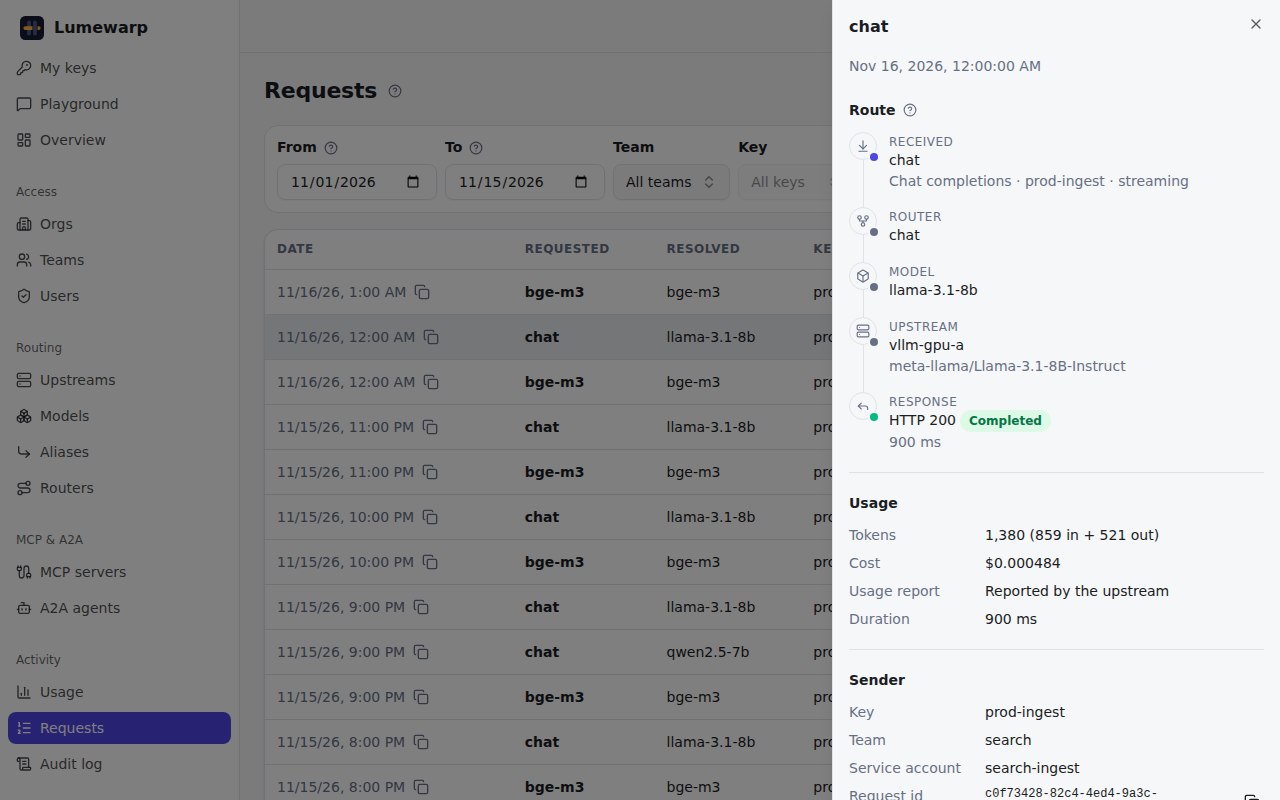
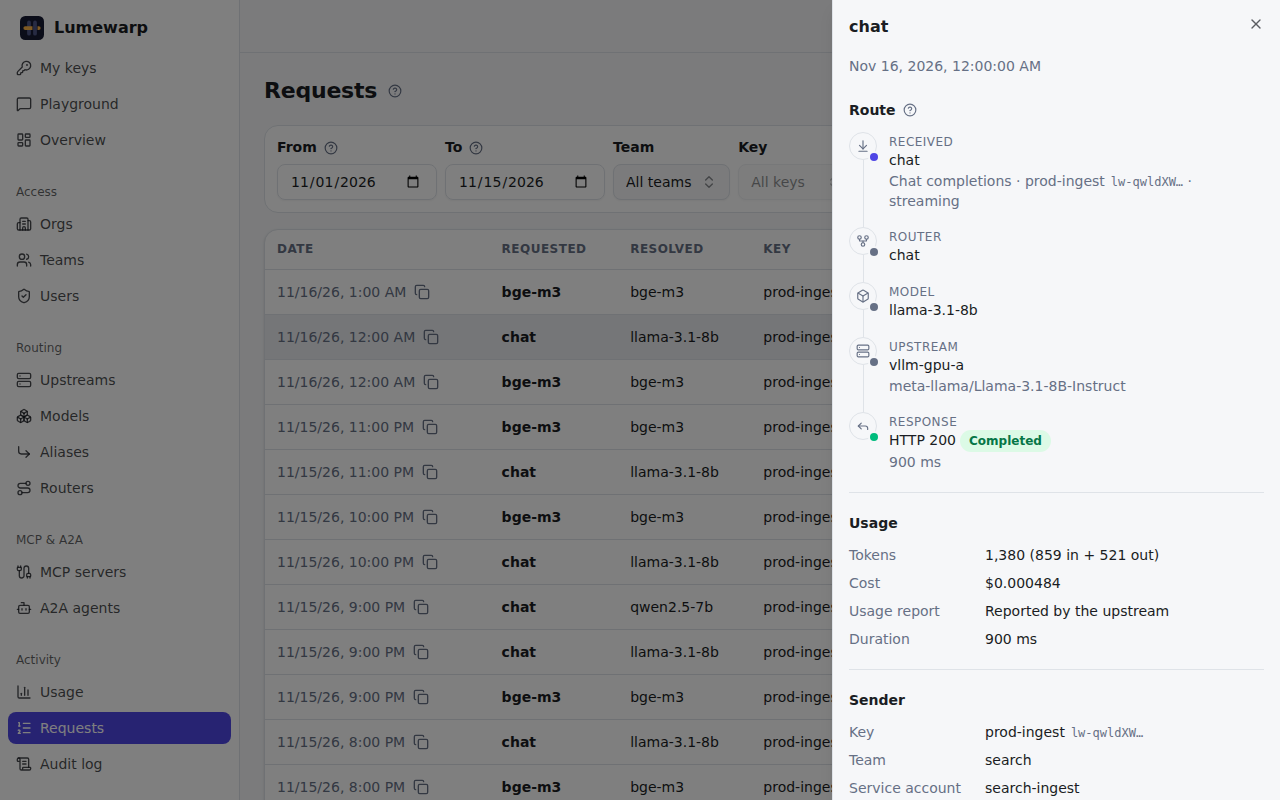
Show the key's display prefix in the request log
Claude-Session: https://claude.ai/code/session_01W9iuh4bNiqzxgJ3JHWGcEk

diff --git a/ui/src/pages/RequestDetail.tsx b/ui/src/pages/RequestDetail.tsx
@@ -10,6 +10,17 @@ import { Sheet, SheetContent, SheetDescription, SheetHeader, SheetTitle } from "
 import { endpointLabel } from "../lib/endpoints";
 import { cn } from "../lib/utils";
 
+/** A request's key: its name and its `lw…` display prefix, or a short id once the key is gone. */
+export function KeyName({ row }: { row: RequestRow }) {
+  if (!row.key_name) return <span className="[overflow-wrap:anywhere]">{row.key_id.slice(0, 8)}…</span>;
+  return (
+    <span className="inline-flex flex-wrap items-baseline gap-x-1.5">
+      <span className="[overflow-wrap:anywhere]">{row.key_name}</span>
+      {row.key_prefix && <code className="text-xs text-muted-foreground" data-testid="request-key-prefix">{row.key_prefix}…</code>}
+    </span>
+  );
+}
+
 type Tone = "ok" | "warn" | "danger" | "muted" | "info";
 
 export const OUTCOME_TONE: Record<Schemas["RequestOutcome"], Tone> = {
@@ -51,7 +62,7 @@ interface Step {
 }
 
 /** The route a request took, in order; a step the request never reached is left out. */
-function steps(row: RequestRow, keyLabel: string): Step[] {
+function steps(row: RequestRow): Step[] {
   const out: Step[] = [
     {
       key: "received",
@@ -60,7 +71,7 @@ function steps(row: RequestRow, keyLabel: string): Step[] {
       name: row.requested || "—",
       detail: (
         <>
-          {row.endpoint ? endpointLabel(row.endpoint) : row.kind.toUpperCase()} · {keyLabel}
+          {row.endpoint ? endpointLabel(row.endpoint) : row.kind.toUpperCase()} · <KeyName row={row} />
           {row.stream ? " · streaming" : ""}
         </>
       ),
@@ -136,7 +147,6 @@ interface Props {
 
 /** One request's details beside the log: the route it took, then who sent it and what it cost. */
 export function RequestDetail({ row, onClose, team, owner, playgroundUser, requestId }: Props) {
-  const keyLabel = row ? (row.key_name ?? `${row.key_id.slice(0, 8)}…`) : "";
   return (
     <Sheet open={!!row} onOpenChange={(open) => !open && onClose()}>
       <SheetContent
@@ -160,7 +170,7 @@ export function RequestDetail({ row, onClose, team, owner, playgroundUser, reque
                   Route
                   <HelpTip text="Per-attempt details are in OTel under this request id; prompts and responses are never stored." />
                 </h3>
-                <Timeline items={steps(row, keyLabel)} />
+                <Timeline items={steps(row)} />
               </section>
               <Separator />
               <section aria-labelledby="request-usage" className="grid gap-3">
@@ -189,7 +199,9 @@ export function RequestDetail({ row, onClose, team, owner, playgroundUser, reque
                 <h3 id="request-sender" className="m-0 text-sm font-semibold">Sender</h3>
                 <DescriptionList>
                   <DescriptionTerm>Key</DescriptionTerm>
-                  <DescriptionDetails className="[overflow-wrap:anywhere]">{keyLabel}</DescriptionDetails>
+                  <DescriptionDetails>
+                    <KeyName row={row} />
+                  </DescriptionDetails>
                   <DescriptionTerm>Team</DescriptionTerm>
                   <DescriptionDetails className="[overflow-wrap:anywhere]">{team}</DescriptionDetails>
                   <DescriptionTerm>{row.owner_kind === "service_account" ? "Service account" : "Owner"}</DescriptionTerm>

diff --git a/ui/src/pages/Requests.tsx b/ui/src/pages/Requests.tsx
@@ -16,7 +16,7 @@ import { useCan, useCatalog, useMe, useNames, useTeamDirectory, useTeams } from 
 import { dayStart, shiftDay } from "../lib/days";
 import type { RequestsSearch } from "../lib/requests";
 import { localDayOf } from "./keyText";
-import { OUTCOME_TONE, outcomeLabel, RequestDetail } from "./RequestDetail";
+import { KeyName, OUTCOME_TONE, outcomeLabel, RequestDetail } from "./RequestDetail";
 
 const KINDS: { value: Schemas["TrafficKind"]; label: string }[] = [
   { value: "llm", label: "LLM" },
@@ -301,7 +301,7 @@ export function Requests() {
             hideBelow: "sm",
             cell: (row) => (
               <span className="flex flex-wrap items-center gap-1">
-                <span className="[overflow-wrap:anywhere]">{row.key_name ?? `${row.key_id.slice(0, 8)}…`}</span>
+                <KeyName row={row} />
                 {row.playground_user_id && (
                   <span data-testid="playground-badge">
                     <Badge tone="info">Playground</Badge>

diff --git a/ui/e2e/requests.spec.ts b/ui/e2e/requests.spec.ts
@@ -144,6 +144,8 @@ test("follows next_cursor and shows the Playground attribution", async ({ page }
     usage_state: "reported",
     duration_ms: 12,
     key_id: uid(),
+    key_name: "ci-runner",
+    key_prefix: "lw-3fa9c2",
     team_id: uid(),
     owner_kind: "user",
     owner_id: uid(),
@@ -159,6 +161,7 @@ test("follows next_cursor and shows the Playground attribution", async ({ page }
   await page.goto("/requests");
   await expect(chain(page).filter({ hasText: "first-page" })).toBeVisible();
   await expect(page.getByRole("cell", { name: "15 (10+5)", exact: true })).toBeVisible();
+  await expect(page.getByRole("cell", { name: "ci-runner lw-3fa9c2…", exact: true })).toBeVisible();
   const nextPage = page.waitForRequest((request) => new URL(request.url()).searchParams.get("cursor") === "page-2");
   await page.getByRole("button", { name: "Next page" }).click();
   await nextPage;

diff --git a/ui/src/api/schema.d.ts b/ui/src/api/schema.d.ts
@@ -3988,6 +3988,8 @@ export interface components {
             key_id: string;
             /** Key Name */
             key_name?: string | null;
+            /** Key Prefix */
+            key_prefix?: string | null;
             /**
              * Team Id
              * Format: uuid

diff --git a/control-plane/src/lumewarp_control_plane/api/requests.py b/control-plane/src/lumewarp_control_plane/api/requests.py
@@ -86,6 +86,8 @@ class RequestOut(ReadModel):
     key_id: uuid.UUID
     # The key's current name; None when the key row no longer exists.
     key_name: str | None = None
+    # The key's display prefix (the start of its secret); None when the key row is gone.
+    key_prefix: str | None = None
     team_id: uuid.UUID
     owner_kind: KeyOwnerKind
     owner_id: uuid.UUID
@@ -268,7 +270,7 @@ async def list_requests(
         )
 
     stmt = (
-        select(UsageEvent, PlaygroundRequest.user_id, ApiKey.name)
+        select(UsageEvent, PlaygroundRequest.user_id, ApiKey.name, ApiKey.display_prefix)
         .outerjoin(PlaygroundRequest, PlaygroundRequest.request_id == UsageEvent.request_id)
         .outerjoin(ApiKey, ApiKey.id == UsageEvent.key_id)
         .where(*filters)
@@ -312,11 +314,12 @@ async def list_requests(
             duration_ms=event.duration_ms,
             key_id=event.key_id,
             key_name=key_name,
+            key_prefix=key_prefix,
             team_id=event.team_id,
             owner_kind=event.owner_kind,
             owner_id=event.owner_id,
             playground_user_id=playground_user_id,
         )
-        for event, playground_user_id, key_name in rows[:limit]
+        for event, playground_user_id, key_name, key_prefix in rows[:limit]
     ]
     return Page[RequestOut](items=items, next_cursor=next_cursor)

diff --git a/control-plane/tests/api/test_requests.py b/control-plane/tests/api/test_requests.py
@@ -306,6 +306,7 @@ async def test_playground_user_is_joined_by_request_id(client, committed) -> Non
     assert by_name["played"]["playground_user_id"] == str(user.id)
     assert by_name["plain"]["playground_user_id"] is None
     assert by_name["plain"]["key_name"] == key.name
+    assert by_name["plain"]["key_prefix"] == key.display_prefix
     # The installation admin sees the same join.
     admin_row = items(client, ADMIN_AUTH, request_id=str(played.request_id))[0]
     assert admin_row["playground_user_id"] == str(user.id)

diff --git a/docs/admin/requests.md b/docs/admin/requests.md
@@ -7,7 +7,7 @@ aggregates the same events; the audit log records administrative changes only.
 
 The page shows one row per request: **Date**, **Requested** (the name the client called),
 **Resolved** (the model that served it, with a badge for a request that did not complete),
-**Key** (with a Playground badge when sent from the Playground), **Tokens** (total, with
+**Key** (its name and `lw-` display prefix, with a Playground badge when sent from the Playground), **Tokens** (total, with
 input + output in brackets) and **Cost**. The filter bar holds the range, team, key,
 requested and resolved names; the other filters are under **More filters**. The copy button
 next to the date copies the request id.
